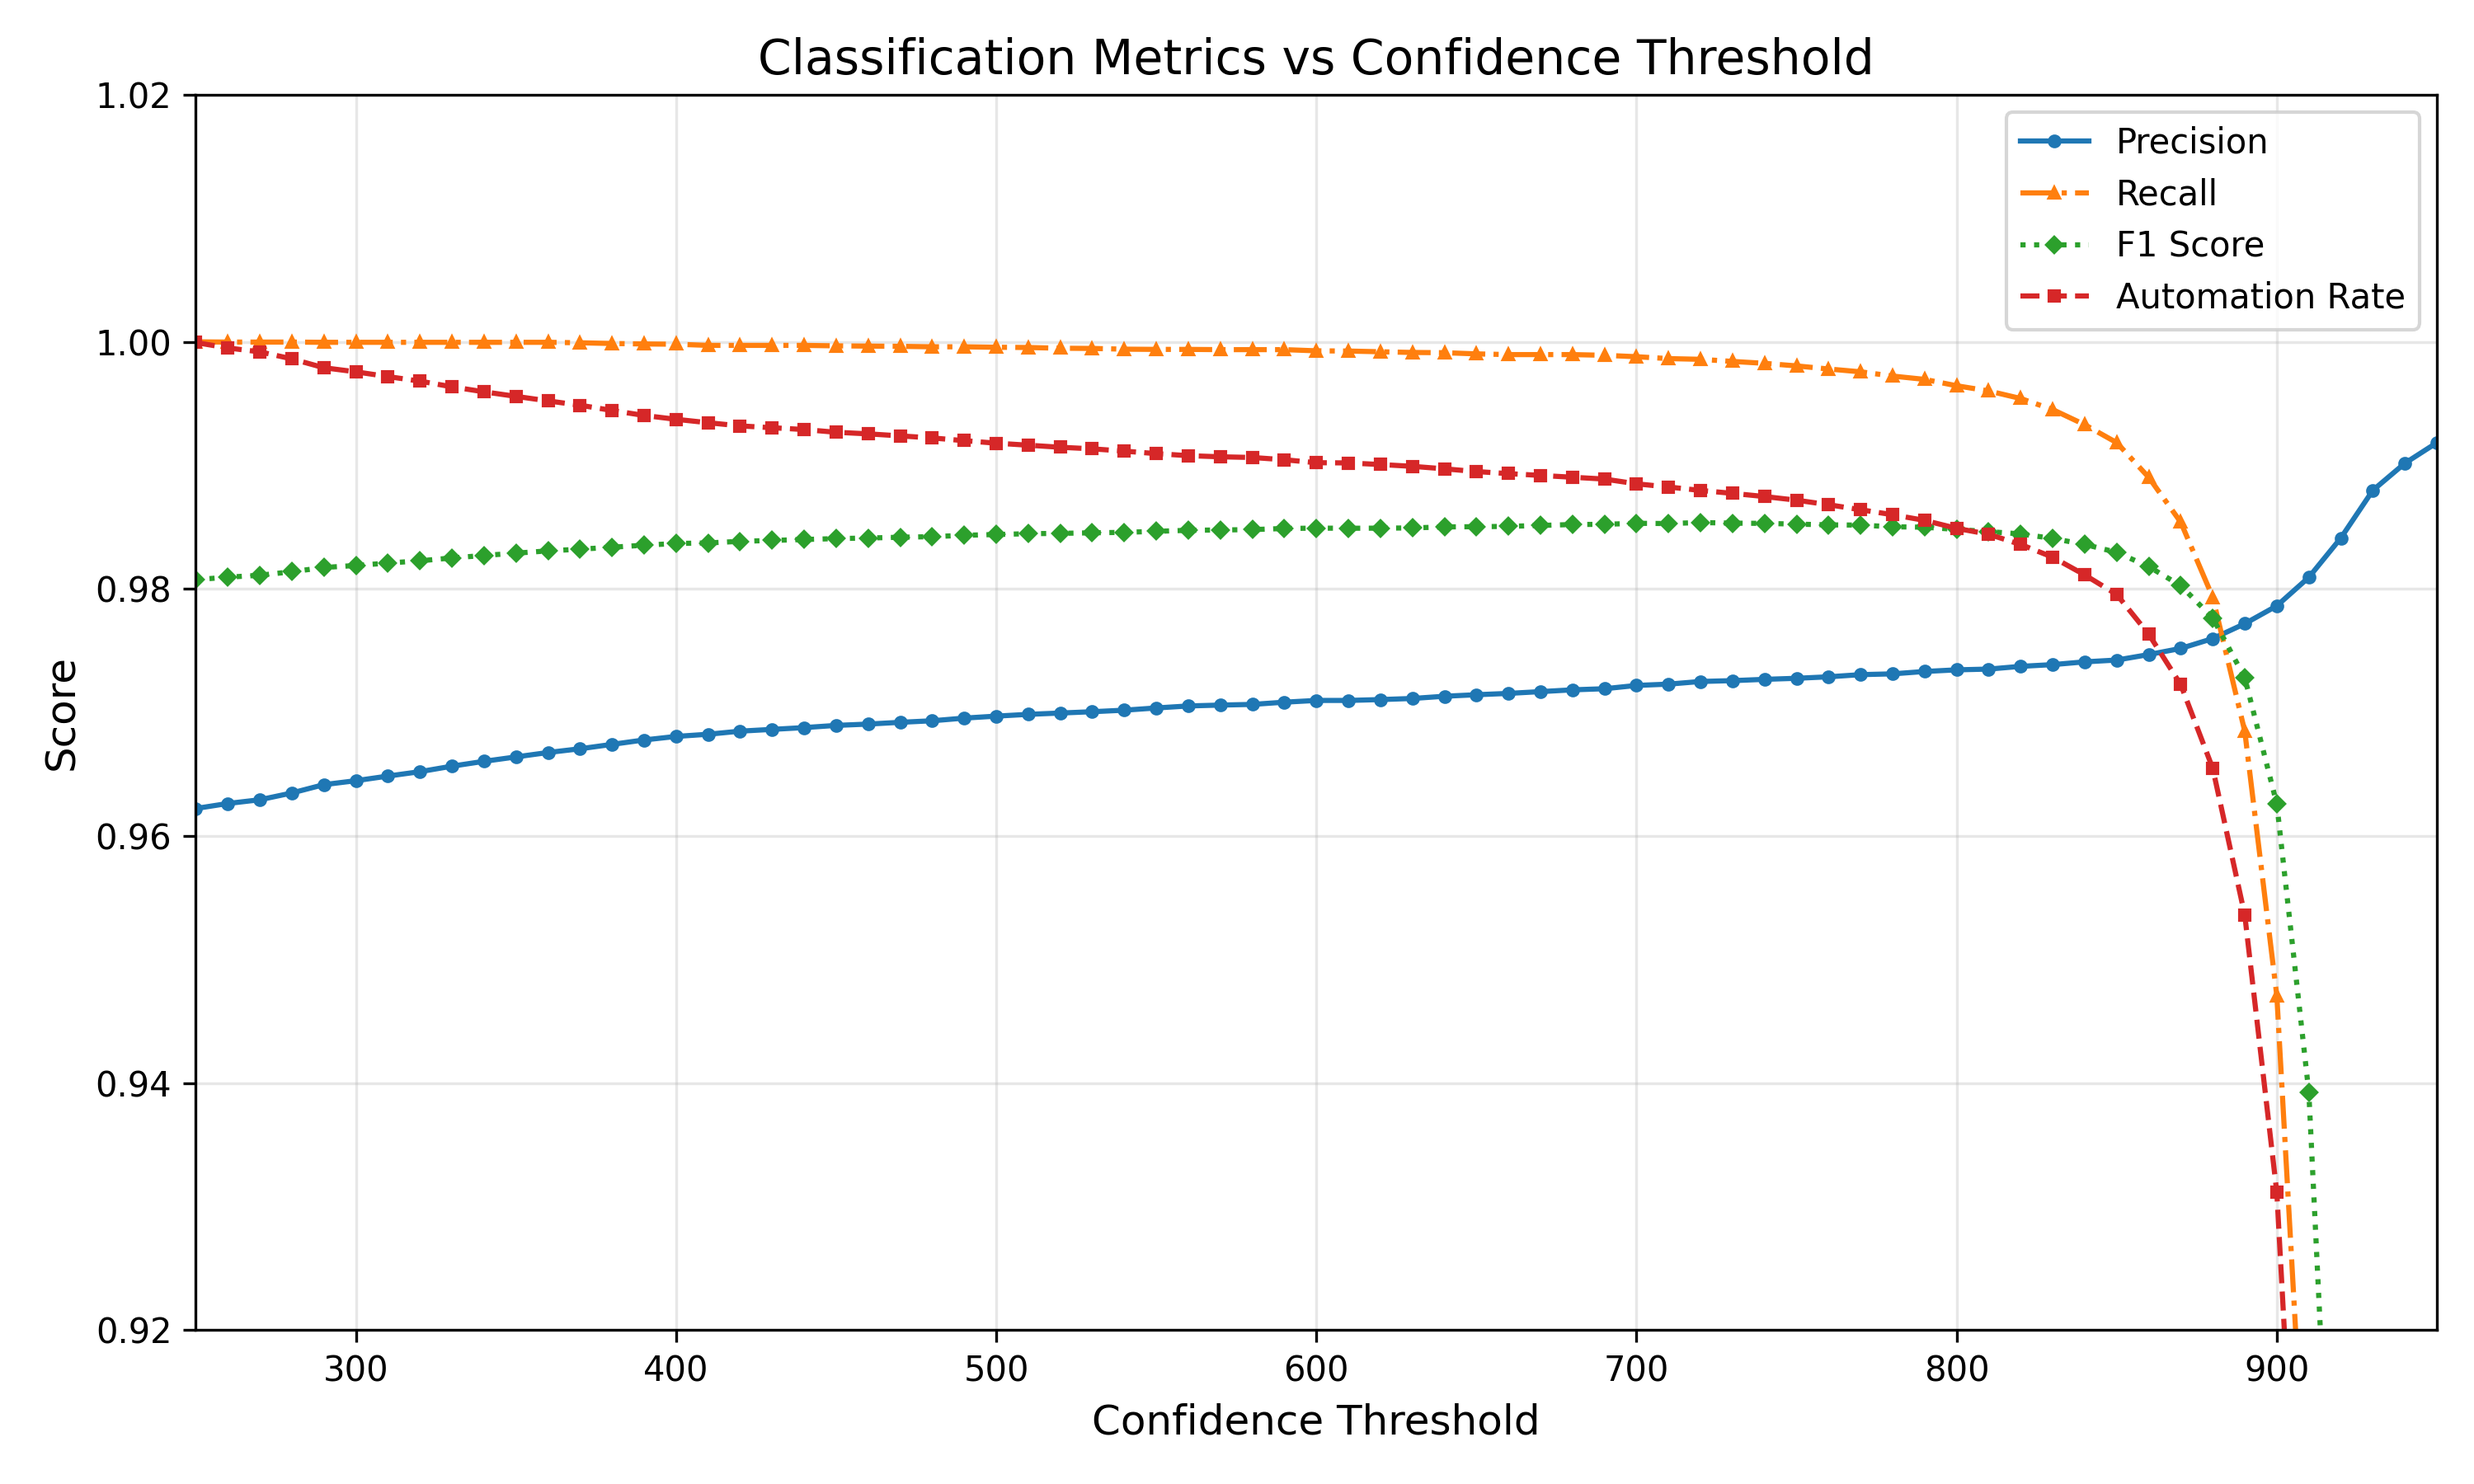
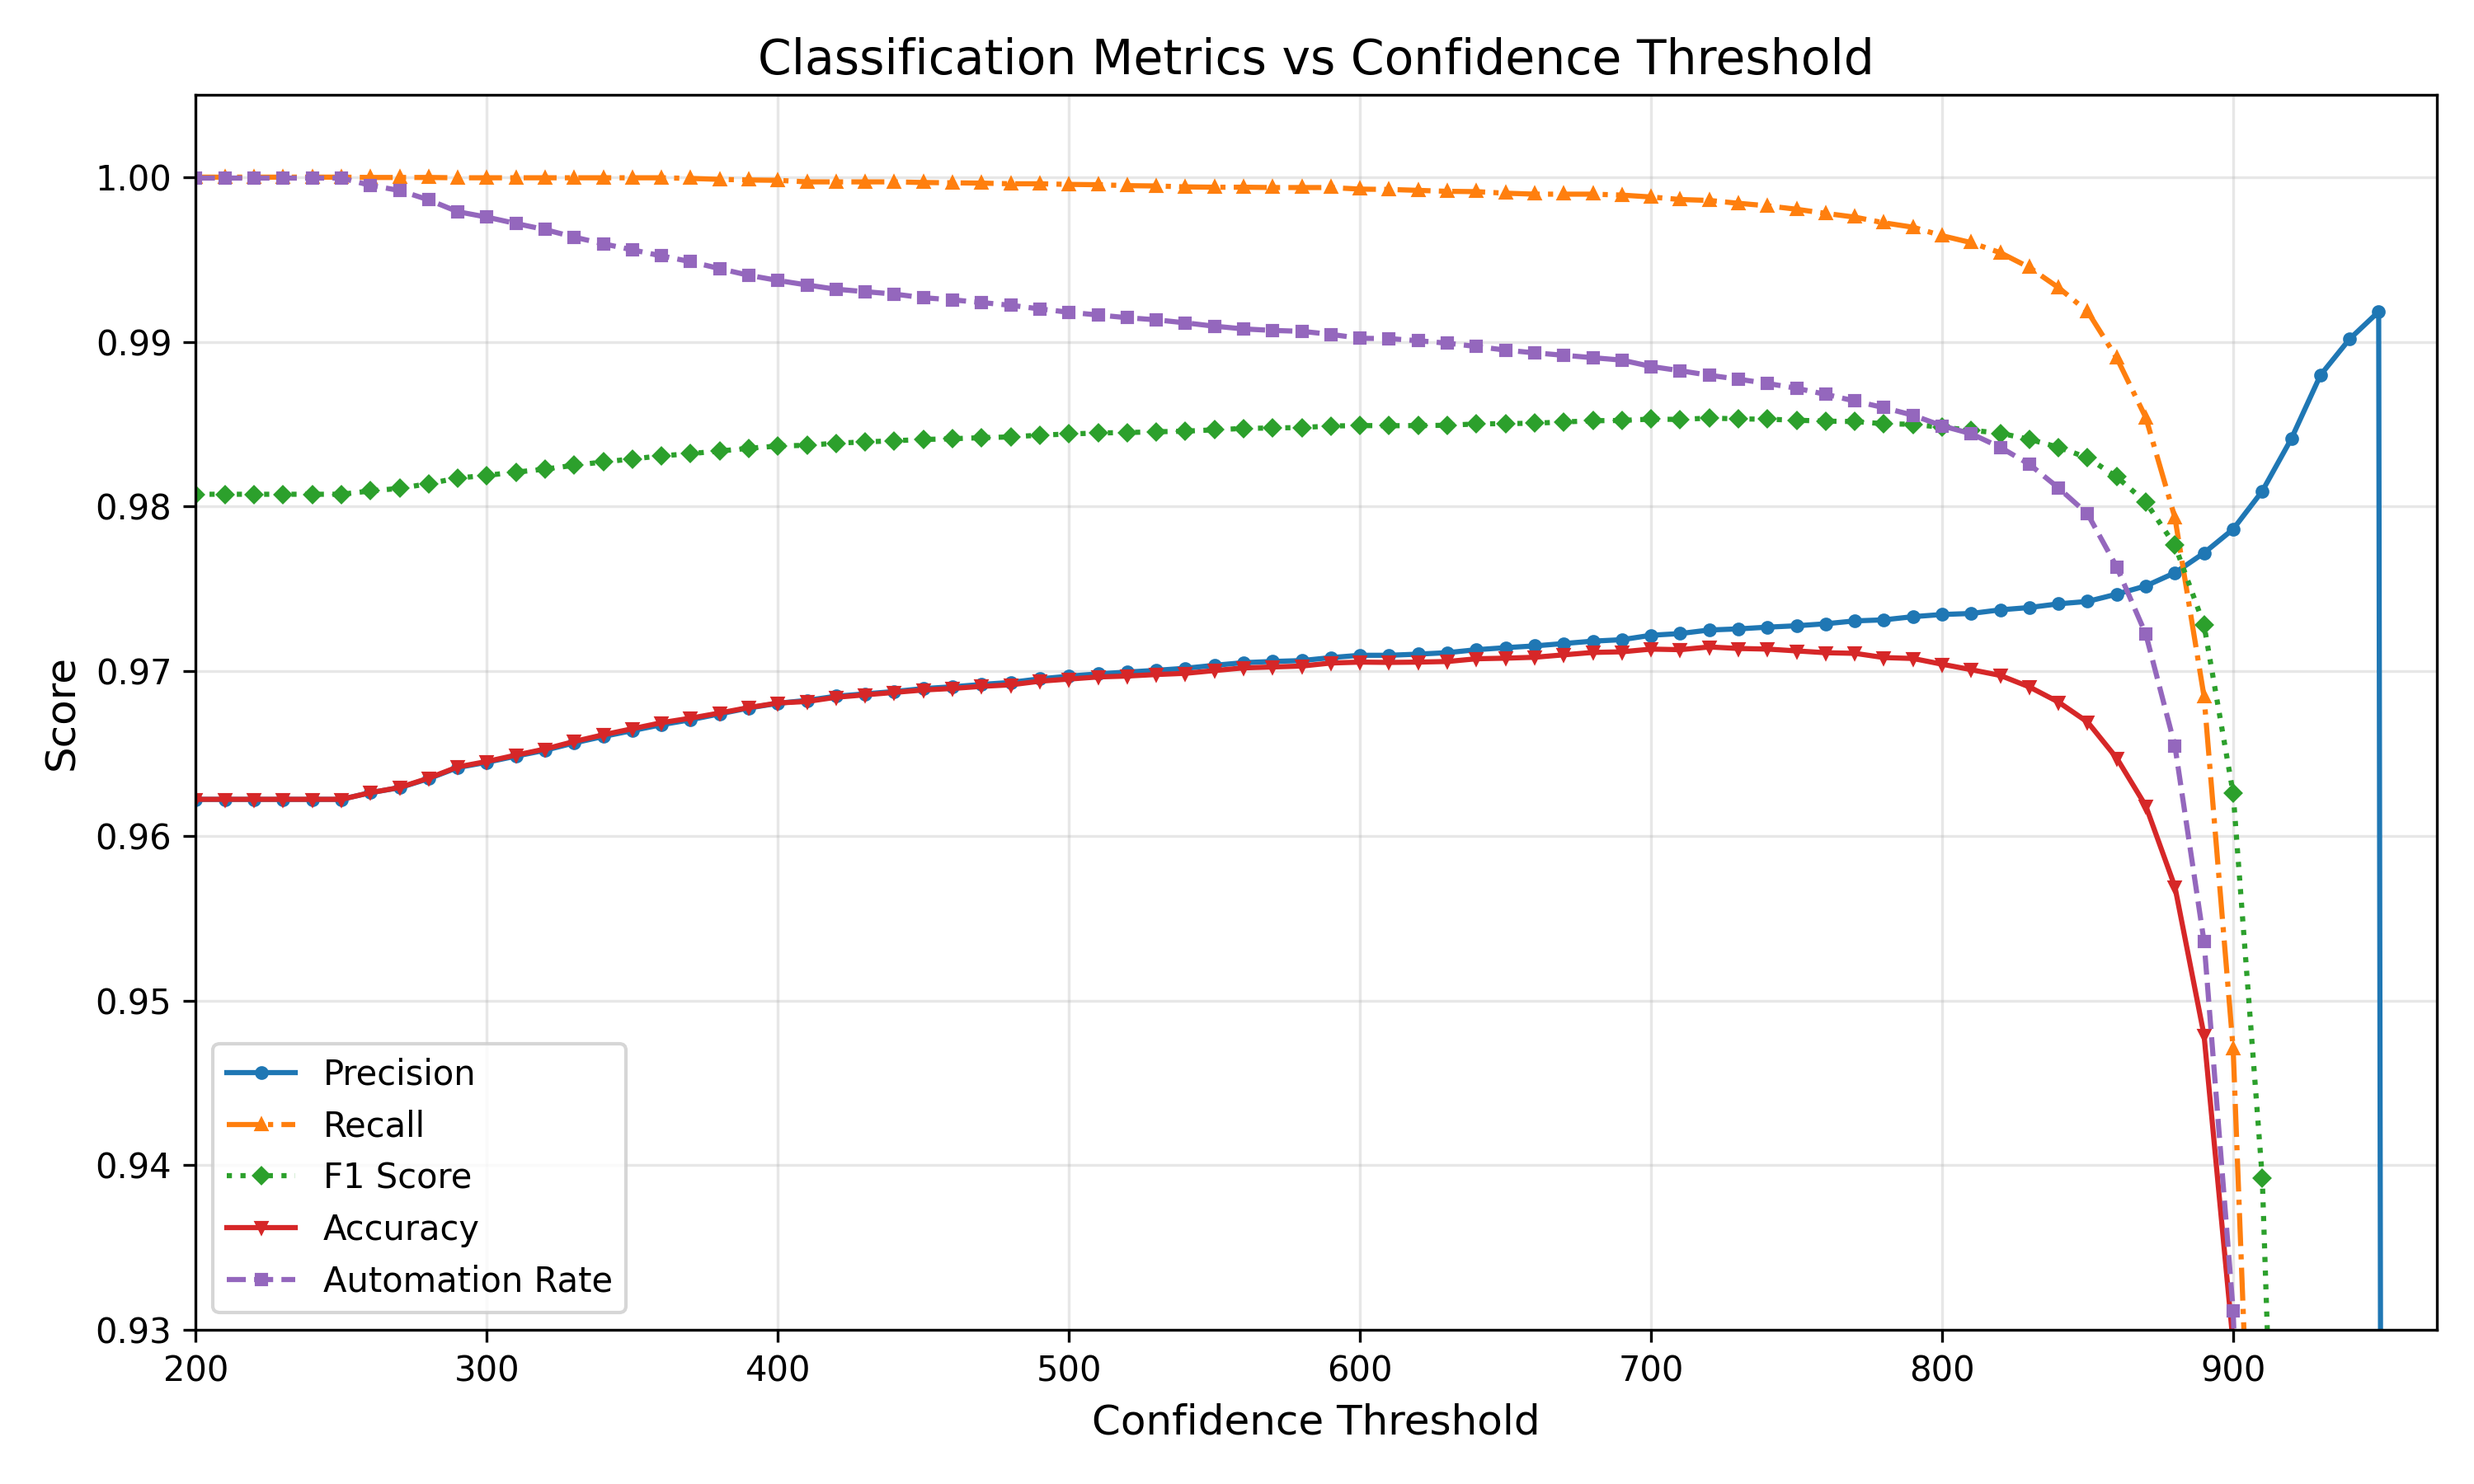
played around with ranges of graph

diff --git a/metrics_figs.py b/metrics_figs.py
@@ -10,33 +10,33 @@ pred_df = pd.read_csv(sys.argv[2])
 ufm_dict, sorted_results = merge_data(label_df, pred_df)
 
 # Generate metrics for different thresholds
-thresholds = range(250, 951, 10)  # From 800 to 950 in 10-point steps
+thresholds = range(200, 971, 10)  # From 800 to 950 in 10-point steps
 precisions = []
 automation_rates = []
 recalls = []
-f1_scores = []
+f_scores = []
 accuracies = []
 
 for threshold in thresholds:
     metrics = calculate_metrics(ufm_dict, sorted_results, conf_threshold=threshold)
     precisions.append(metrics['precision'])
     recalls.append(metrics['recall'])
-    f1_scores.append(metrics['f1'])
+    f_scores.append(metrics['f1'])
     accuracies.append(metrics['accuracy'])
     automation_rates.append(metrics['automation_rate'])
 
 plt.figure(figsize=(10, 6))
 plt.plot(thresholds, precisions, label='Precision', marker='o', linestyle='-', markersize=3)
 plt.plot(thresholds, recalls, label='Recall', marker='^', linestyle='-.', markersize=3)
-plt.plot(thresholds, f1_scores, label='F1 Score', marker='D', linestyle=':', markersize=3)
-# plt.plot(thresholds, accuracies, label='Accuracy', marker='v', linestyle='-', markersize=2)
+plt.plot(thresholds, f_scores, label='F1 Score', marker='D', linestyle=':', markersize=3)
+plt.plot(thresholds, accuracies, label='Accuracy', marker='v', linestyle='-', markersize=3)
 plt.plot(thresholds, automation_rates, label='Automation Rate', marker='s', linestyle='--', markersize=3)
 
 # Formatting
 plt.xlabel('Confidence Threshold', fontsize=12)
 plt.ylabel('Score', fontsize=12)
 plt.title('Classification Metrics vs Confidence Threshold', fontsize=14)
-plt.ylim(0.92, 1.02)  # Add some padding above 1
+plt.ylim(0.93, 1.005)  # Add some padding above 1
 plt.xlim(min(thresholds), max(thresholds))
 plt.grid(True, alpha=0.3)
 plt.legend()
@@ -47,8 +47,8 @@ plt.savefig('figs/confidence_metrics_plot.png', dpi=300)
 plt.show()
 
 # Print metrics for selected thresholds
-# print("\nKey Threshold Metrics:")
-# for threshold in [800, 850, 900, 910, 920, 950]:
-#     if threshold in thresholds:
-#         idx = thresholds.index(threshold)
-#         print(f"{threshold}: Precision={precisions[idx]:.3f}, Automation Rate={automation_rates[idx]:.3f}")
+print("\nKey Threshold Metrics:")
+for threshold in [800, 850, 900, 910, 920, 950]:
+    if threshold in thresholds:
+        idx = thresholds.index(threshold)
+        print(f"{threshold}: Precision={precisions[idx]:.3f}, Automation Rate={automation_rates[idx]:.3f}, F-score={f_scores[idx]:.3f}")
